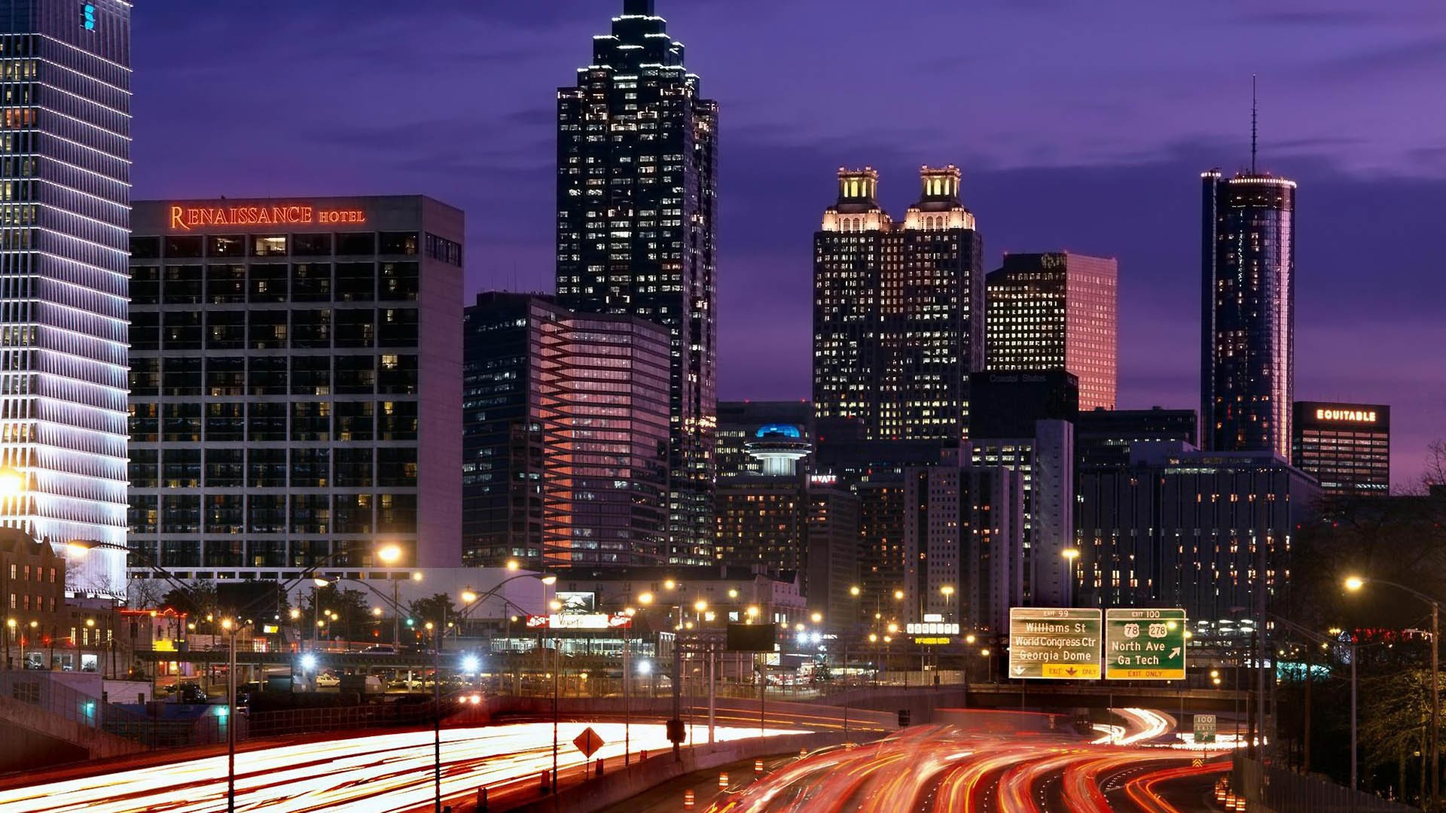
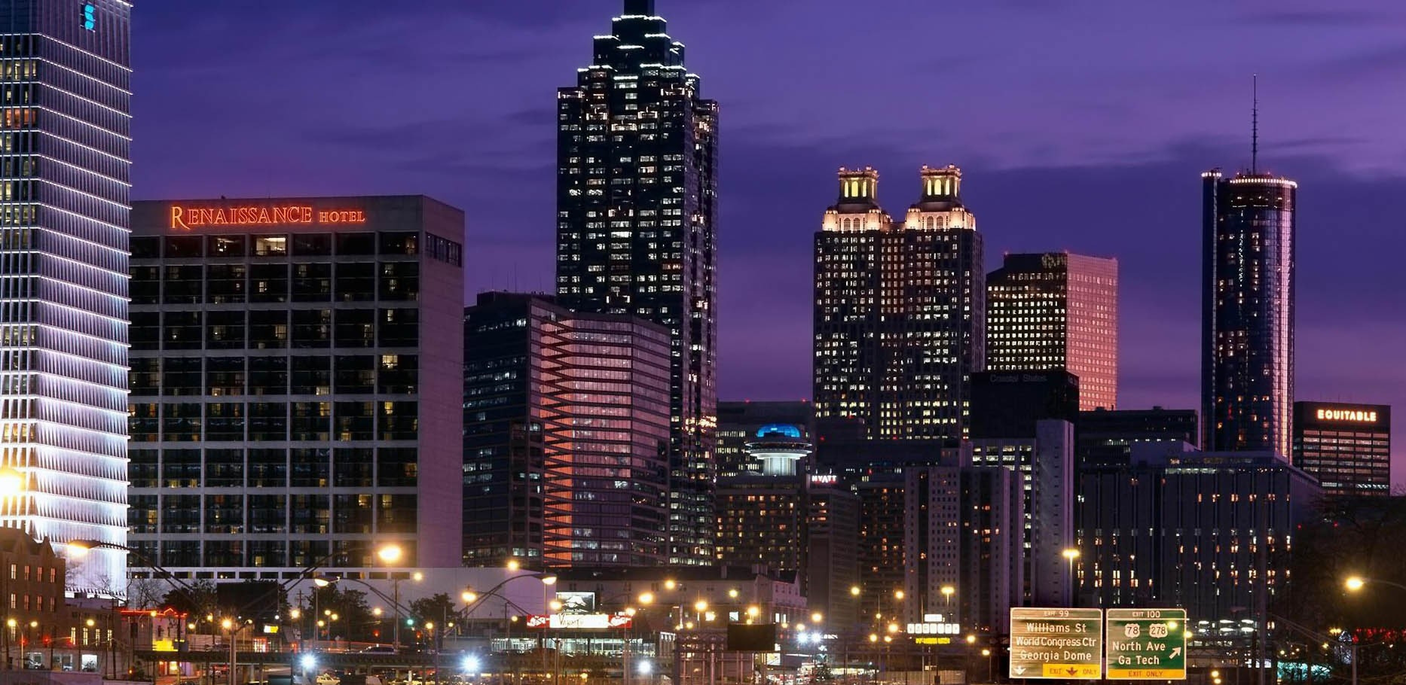
Update UI Beta
ver 1.0

diff --git a/modules/core/client/views/home.client.view.html b/modules/core/client/views/home.client.view.html
@@ -1,53 +1,72 @@
 <section ng-controller="HomeController">
-<!-- <img alt="MEAN.JS" class="img-responsive text-center" src="modules/core/client/img/brand/logo.png" />  -->
 <div class="Carousel">
   <div class="row">
-
          <div id="carousel-example-generic" class="carousel slide" data-ride="carousel">
-            <!-- Indicators -->
-
             <ol class="carousel-indicators">
               <li data-target="#carousel-example-generic" data-slide-to="0" class="active"></li>
               <li data-target="#carousel-example-generic" data-slide-to="1"></li>
               <li data-target="#carousel-example-generic" data-slide-to="2"></li>
-            <!--     <li data-target="#carousel-example-generic" data-slide-to="3"></li> -->
-             
             </ol>
-           
-            <!-- Wrapper for slides -->
-
-            <div class="carousel-inner">
-          
+            <div class="carousel-inner" >          
               <div class="item active">
-                  <img src="modules/core/client/img/loaders/Company8.jpg" alt="Company8" style="height:672px;width:1500px; -webkit-filter: blur(0.5px); /* Chrome, Safari, Opera */
-    filter: blur(5px);">
+                  <img src="modules/core/client/img/loaders/Company8.jpg" alt="Company8" style="width:100%; -webkit-filter: blur(0.5px); /* Chrome, Safari, Opera */ filter: blur(5px);">
                 <div class="carousel-caption">
                     <div class="search">
                          <img src="modules/users/client/img/home1.png" style="margin-top:30px;color:white">
-                         <h4 style="white-space:nowrap;font-size:21px">Tìm kiếm công việc trong mơ của bạn. Company rating website có hơn<br/> 19.000 công việc cho bạn lựa chọn.</h4>
+                         <h4 style="font-size:21px">Bạn muốn tìm môi trường làm việc phù hợp hơn với mình?</h4>
+                         <h4 style="font-size:21px"> Xem nhân viên ở những công ty hàng đầu chia sẻ ra sao</h4>
+                         <div id="searchs">
+                           <form>
+                             <fieldset class="clearfix">
+
+                              <input class="input-search" type="search" name="search" value="Nhập công ty..." onBlur="if(this.value=='')this.value='Nhập công ty...'" onFocus="if(this.value=='Nhập công ty...')this.value='' " style="margin-top:5px;font-size:12px;" ng-keypress="enterToSearch($event)" ng-model="keyword" required placeholder="Nhập công ty..."> <!-- JS because of IE support; better: placeholder="What are you looking for?" -->
+                              <input type="submit" value="Tìm kiếm" class="button" style="margin-top:5px;font-size:11px;" ui-sref="companies.search({keyword: keyword})">
+
+                            </fieldset>
+                          </form>
+                        </div>
                     </div>
                 </div>
                </div>
 
               <div class="item ">
-                  <img src="modules/core/client/img/loaders/Company9.jpg" alt="Company9" style="height:672px;width:1500px; -webkit-filter: blur(0.5px); /* Chrome, Safari, Opera */
+                  <img src="modules/core/client/img/loaders/Company9.jpg" alt="Company9" style="width:100%; -webkit-filter: blur(0.5px); /* Chrome, Safari, Opera */
     filter: blur(5px);">
                 <div class="carousel-caption">
                      <div class="search">
                          <img src="modules/users/client/img/home2.png" style="margin-top:30px;color:white">
-                         <h4 style="white-space:nowrap;font-size:21px">Tìm kiếm theo mức lương thưởng mong muốn
-và có cái nhìn chi tiết mức <br/> lương thưởng theo từng công việc hoặc công ty.</h4>
+                         <h4 style="font-size:21px">Bạn thấy mức lương và chế độ đãi ngộ đang hưởng là không xứng đáng?</br> Xem các đồng nghiệp ở cùng vị trí chia sẻ mức lương và đãi ngộ của họ</h4>
+                          <div id="searchs">
+                           <form>
+                             <fieldset class="clearfix">
+
+                              <input class="input-search" type="search" name="search" value="Nhập công ty..." onBlur="if(this.value=='')this.value='Nhập công ty...'" onFocus="if(this.value=='Nhập công ty...')this.value='' " style="margin-top:5px;font-size:12px;" ng-keypress="enterToSearch($event)" ng-model="keyword" required placeholder="Nhập công ty..."> <!-- JS because of IE support; better: placeholder="What are you looking for?" -->
+                              <input type="submit" value="Tìm kiếm" class="button" style="margin-top:5px;font-size:11px;" ui-sref="companies.search({keyword: keyword})">
+
+                            </fieldset>
+                          </form>
+                        </div>
                     </div>
                 </div>
                </div>
 
               <div class="item ">
-                  <img src="modules/core/client/img/loaders/Company11.jpg" alt="Company11" style="height:672px;width:1500px; -webkit-filter: blur(0.5px); /* Chrome, Safari, Opera */
+                  <img src="modules/core/client/img/loaders/Company11.jpg" alt="Company11" style="width:100%; -webkit-filter: blur(0.5px); /* Chrome, Safari, Opera */
     filter: blur(5px);">
                 <div class="carousel-caption">
                      <div class="search">
                          <img src="modules/users/client/img/home3.png" style="margin-top:30px;color:white">
-                         <h4 style="white-space:nowrap;font-size:21px">Xem đánh giá về công ty từ  những nhân viên thực sự nói về công ty <br/>mà họ đã và đang làm việc.</h4>
+                         <h4 style="font-size:21px">Xem đánh giá về công ty từ  những nhân viên đã và đang làm việc để có cái nhìn khách quan nhất.</h4>
+                         <div id="searchs">
+                           <form>
+                             <fieldset class="clearfix">
+
+                              <input class="input-search" type="search" name="search" value="Nhập công ty..." onBlur="if(this.value=='')this.value='Nhập công ty...'" onFocus="if(this.value=='Nhập công ty...')this.value='' " style="margin-top:5px;font-size:12px;" ng-keypress="enterToSearch($event)" ng-model="keyword" required placeholder="Nhập công ty..."> <!-- JS because of IE support; better: placeholder="What are you looking for?" -->
+                              <input type="submit" value="Tìm kiếm" class="button" style="margin-top:5px;font-size:11px;" ui-sref="companies.search({keyword: keyword})">
+
+                            </fieldset>
+                          </form>
+                        </div>
                     </div>
                 </div>
                </div>

diff --git a/modules/companies/client/views/list-companies.client.view.html b/modules/companies/client/views/list-companies.client.view.html
@@ -4,7 +4,7 @@
          <div class="col-sm-7  " style="margin-top:20px;border:solid 1px;border-color:grey;background-color:white; overflow:hidden;margin-bottom:30px;" >
             <div class="row" style="margin-bottom:20px;height:60px">
                <div class="col-sm-6" style="color:white;margin-top:10px">
-                  <h5 style="color:grey" ng-show="(vm.keyword)">{{vm.companies.length}} kết quả cho từ khóa : {{vm.keyword}}</h5>
+                  <h5 style="color:black;font-size:18px;margin-left:15px" ng-show="(vm.keyword)">{{vm.companies.length}} kết quả cho từ khóa : {{vm.keyword}}</h5>
                   <h5 style="color:black;font-size:18px;margin-left:15px" ng-hide="(vm.keyword)"></span> Danh Sách Tất Cả Công Ty :</h5>
                </div>
                <div class="col-sm-6">
@@ -38,6 +38,10 @@
                <div class="col-sm-12" style="margin-left:-5px">
                   <div dir-paginate="company in vm.companies | orderBy:vm.sortKey:vm.reverse | filter:{state: 'approved'} | itemsPerPage:vm.itemsPerPage" ng-include="'modules/companies/client/views/panel-company.client.view.html'"></div>
                </div>
+               <div ng-repeat="company in vm.companies | filter:{state: 'approved'} as results"></div>
+               <div class="text-center" ng-hide="results.length>0">
+               Công ty của bạn chưa có trên hệ thống? <a ui-sref="companies.create">Tạo công ty mới</a>
+               </div>
             </div>
             <div class="row pull-right" style="font-size:10px;margin-right:10px" >
                <dir-pagination-controls
@@ -65,15 +69,8 @@
                   </div>
                   </a>
                </div>
-               <!--            <div class="col-sm-2">
-                  </div> -->
             </div>
          </div>
-       <!--   <a  ui-sref="authentication.signup" >
-            <div class="circles">
-               <span class="glyphicon glyphicon-plus" style="font-size:11px;color:#03a9f4"></span><span class="glyphicon glyphicon-user" style="color:#03a9f4;padding-top:20px"></span>
-            </div>
-         </a> -->
       </div>
    </div>
    <div id='bttop'>TRỞ VỀ ĐẦU TRANG</div>

diff --git a/modules/users/client/views/password/forgot-password.client.view.html b/modules/users/client/views/password/forgot-password.client.view.html
@@ -1,17 +1,17 @@
 <section class="row" ng-controller="PasswordController">
-  <h3 class="col-md-12 text-center">Restore your password</h3>
-  <p class="small text-center">Enter your account's email.</p>
+  <h3 class="col-md-12 text-center">Phục hồi mật khẩu</h3>
+  <p class="small text-center">Nhập email đã đăng ký.</p>
   <div class="col-xs-offset-2 col-xs-8 col-md-offset-5 col-md-2">
     <form name="forgotPasswordForm" ng-submit="askForPasswordReset(forgotPasswordForm.$valid)" class="form-horizontal" novalidate autocomplete="off">
       <fieldset>
         <div class="form-group" show-errors>
           <input type="text" id="email" name="email" class="form-control" ng-model="credentials.email" placeholder="email" lowercase required>
           <div ng-messages="forgotPasswordForm.email.$error" role="alert">
-            <p class="help-block error-text" ng-message="required">Enter a email.</p>
+            <p class="help-block error-text" ng-message="required">Hãy nhập email.</p>
           </div>
         </div>
         <div class="text-center form-group">
-          <button type="submit" class="btn btn-primary">Submit</button>
+          <button type="submit" class="btn btn-primary">Gửi</button>
         </div>
         <div ng-show="error" class="text-center text-danger">
           <strong ng-bind="error"></strong>

diff --git a/modules/users/client/views/settings/manage-social-accounts.client.view.html b/modules/users/client/views/settings/manage-social-accounts.client.view.html
@@ -2,10 +2,14 @@
 <h4 style="color:grey;font-weight:bold;">Company rating website</h4>
 <div style="border:solid 2px;border-color:lightgrey;background-color:white" class="col-sm-12">
        <h5 style="margin-left:40px;font-weight:bold;margin-bottom:10px;margin-top:20px">Quản lý các trang xã hội</h5>
+       		<div class="social-account-container" ng-hide="isConnectedSocialAccount('facebook')" style="margin-left:30px;margin-bottom:50px;margin-top:20px;">
+       			<a href="/api/auth/facebook" target="_self">
+              		<img ng-src="/modules/users/client/img/buttons/facebook.png" style="height:80px;width:80px;">
+              	</a>
+            </div>
             <div class="social-account-container" ng-hide="isConnectedSocialAccount('google')" style="margin-left:35px;margin-bottom:20px">
-              <img ng-src="/modules/users/client/img/buttons/google.png"  style="height:80px;width:80px;">
               <a href="/api/auth/google" target="_self">
-               
+              	<img ng-src="/modules/users/client/img/buttons/google.png"  style="height:80px;width:80px;">
               </a>
             </div>
               

diff --git a/modules/core/client/css/trangchu.css b/modules/core/client/css/trangchu.css
@@ -5,21 +5,14 @@ div.search{
 	 background: rgba(59,89,152, 0.5);
 }
  .search{
- 	 width: 660px;
- 	 height: 250px;
- 	 margin-bottom: 180px;
- 	 margin-left: 60px;
+ 	 width: 80%;
+ 	 height: 30%;
+ 	 margin: auto;
+ 	 margin-bottom: 30%;
      background-color: rgb(	59,89,152);
-    -moz-border-radius-topleft:10px;
-    -webkit-border-top-left-radius:10px;
-    -moz-border-radius-bottomleft:10px;
-	-webkit-border-bottom-left-radius:10px;
-	-moz-border-radius-topright:10px;
-	-webkit-border-top-right-radius:10px;
-	-moz-border-radius-bottomright:10px;
-	-webkit-border-bottom-right-radius:10px;
-
+     border-radius: 10px;
  }
+
  div.tab-contents-avatar{
  	background: rgba(59,89,152, 0.5)
  }

diff --git a/modules/core/client/app/init.js b/modules/core/client/app/init.js
@@ -14,6 +14,8 @@ angular.module(ApplicationConfiguration.applicationModuleName).config(['$locatio
 
 angular.module(ApplicationConfiguration.applicationModuleName).run(function ($rootScope, $state, Authentication) {
 
+  $rootScope.$state = $state;
+
   // Check authentication before changing state
   $rootScope.$on('$stateChangeStart', function (event, toState, toParams, fromState, fromParams) {
     if (toState.data && toState.data.roles && toState.data.roles.length > 0) {

diff --git a/modules/core/server/views/layout.server.view.html b/modules/core/server/views/layout.server.view.html
@@ -45,7 +45,7 @@
 
 <body class="ng-cloak" style="font-family: 'Ek Mukta';background-color:#e5e5e5">
   <header ng-include="'/modules/core/client/views/header.client.view.html'" class="navbar navbar-fixed-top"></header>
-  <section class="content" style="min-height:672px;">
+  <section class="content" style="">
     <section class="container-fluid" style="margin-top:40px">
       {% block content %}{% endblock %}
     </section>

diff --git a/modules/core/client/views/header.client.view.html b/modules/core/client/views/header.client.view.html
@@ -96,7 +96,7 @@
 
     </div>
     <div class="pull-right">
-      <div id="searchs" style="margin-right:10px;">
+      <div id="searchs" style="margin-right:10px;" ng-hide="$state.includes('home')">
 
       <form method="GET">
 

diff --git a/modules/users/client/controllers/user.client.controller.js b/modules/users/client/controllers/user.client.controller.js
@@ -37,7 +37,7 @@ angular.module('users').controller('UserProfileController', ['$http', '$scope', 
       }
 
       function errorCallback(res) {
-        alert(res.data.message);
+        alert(res.message);
       }
     };
   }

diff --git a/modules/users/server/controllers/admin.server.controller.js b/modules/users/server/controllers/admin.server.controller.js
@@ -45,7 +45,6 @@ exports.update = function (req, res) {
       if (req.body.accState) user.accState = req.body.accState;
     }
   }
-
   user.save(function (err) {
     if (err) {
       return res.status(400).send({
